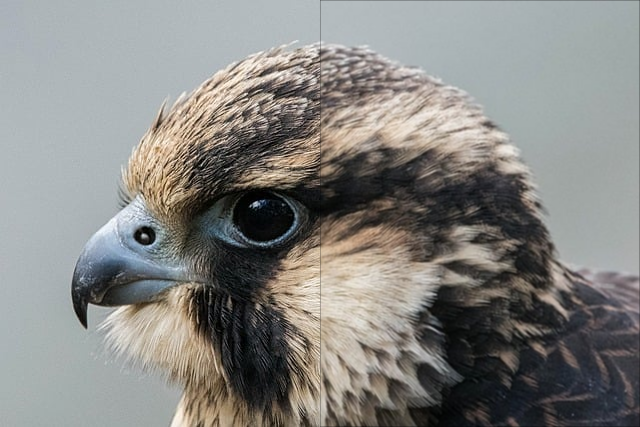
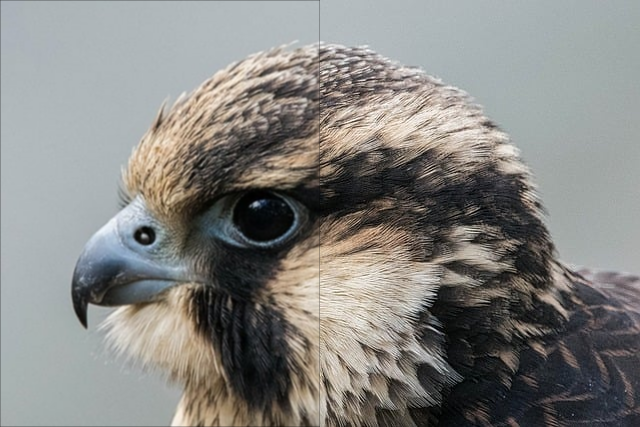
Compression and split fix

diff --git a/src/ime/model/ImagePixelImpl.java b/src/ime/model/ImagePixelImpl.java
@@ -3,9 +3,9 @@ package ime.model;
 import java.util.ArrayList;
 import java.util.Arrays;
 import java.util.Collections;
-import java.util.HashSet;
 import java.util.List;
-import java.util.Set;
+import java.util.SortedSet;
+import java.util.TreeSet;
 import java.util.function.Function;
 import java.util.stream.Collectors;
 
@@ -346,17 +346,16 @@ public class ImagePixelImpl implements Image {
     if (compressPercent == 0) {
       return;
     }
+
     compressPercent = compressPercent / 100;
+    SortedSet<Float> uniqueElementSet = getUniqueElements(transformed);
+    List<Float> sortedElementList = uniqueElementSet.stream().collect(Collectors.toList());
+    int num = (int) (compressPercent * sortedElementList.size());
+    float threshold = sortedElementList.get(num - 1);
     for (int i = 0; i < getChannelCount(); i++) {
-      Set<Float> uniqueElementSet = getUniqueElements(transformed, i);
-      List<Float> sortedElementList = uniqueElementSet.stream()
-              .sorted(Float::compare)
-              .collect(Collectors.toList());
-      int num = (int) (compressPercent * sortedElementList.size());
-      float threshold = sortedElementList.get(num - 1);
       for (int m = 0; m < transformed.length; m++) {
         for (int n = 0; n < transformed[0].length; n++) {
-          if (Math.abs(transformed[m][n][i]) <= threshold) {
+          if (Math.round(Math.abs(transformed[m][n][i])) <= threshold) {
             transformed[m][n][i] = 0;
           }
         }
@@ -364,12 +363,12 @@ public class ImagePixelImpl implements Image {
     }
   }
 
-  private Set<Float> getUniqueElements(float[][][] ar, int i) {
-    Set<Float> arr = new HashSet<>();
-    for (int m = 0; m < ar.length; m++) {
-      for (int n = 0; n < ar.length; n++) {
-        if (ar[m][n][i] != 0) {
-          arr.add(Math.abs(ar[m][n][i]));
+  private SortedSet<Float> getUniqueElements(float[][][] transformedImage) {
+    SortedSet<Float> arr = new TreeSet<>();
+    for (int i = 0; i < getChannelCount(); i++) {
+      for (int m = 0; m < transformedImage.length; m++) {
+        for (int n = 0; n < transformedImage.length; n++) {
+          arr.add(Math.abs(transformedImage[m][n][i]));
         }
       }
     }

diff --git a/src/ime/model/ImageRepository.java b/src/ime/model/ImageRepository.java
@@ -26,16 +26,6 @@ public interface ImageRepository {
 
   void loadImage(float[][][] image, String imageName );
 
-  /**
-   * This method is used to save a tagged image to a given file path.
-   *
-   * @param filePath  the path at which the image is to be saved.
-   * @param imageName the name of the image to be saved.
-   * @throws IOException              if any error occurs during the loading of the image or if the
-   *                                  file does not exist at the file path.
-   * @throws IllegalArgumentException if imageName has not been created/tagged yet.
-   */
-//  void saveImage(String filePath, String imageName);
 
   float[][][] getImage(String imageName);
 

diff --git a/src/ime/model/ImageRepositoryImpl.java b/src/ime/model/ImageRepositoryImpl.java
@@ -191,9 +191,9 @@ public class ImageRepositoryImpl implements ImageRepository {
     }
     validateImagePresent(imageNameSrc);
     List<Image> images = imageMap.get(imageNameSrc).splitVertically(verticalSplit);
-    imageMap.put("temp", images.get(1));
+    imageMap.put("temp", images.get(0));
     operation.accept("temp", "temp");
-    imageMap.put(imageNameDest, images.get(0).append(imageMap.get("temp")));
+    imageMap.put(imageNameDest, imageMap.get("temp").append(images.get(1)));
     imageMap.remove("temp");
   }
 
